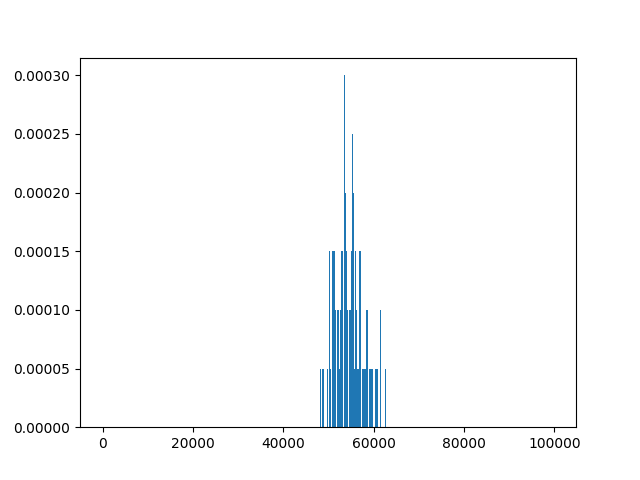
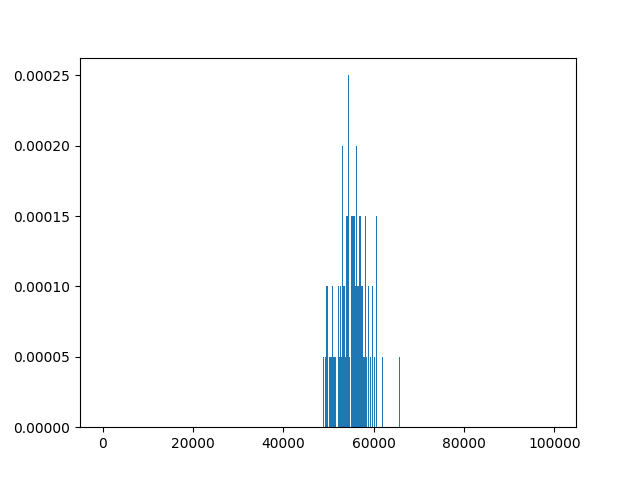
Fixed code trials

diff --git a/lab5/median_income_graphing.py b/lab5/median_income_graphing.py
@@ -24,7 +24,7 @@ def central_limit_histogram(incomes, samples, trials, filen, directory):
             income = incomes.sample().mean(0).to_dict()
             mean += income['x']
 
-        mean = mean / 100
+        mean = mean / trials
         sampleMeans.append(mean)
 
         print('Mean ' + str(a) + ' to: ' + str(mean))
